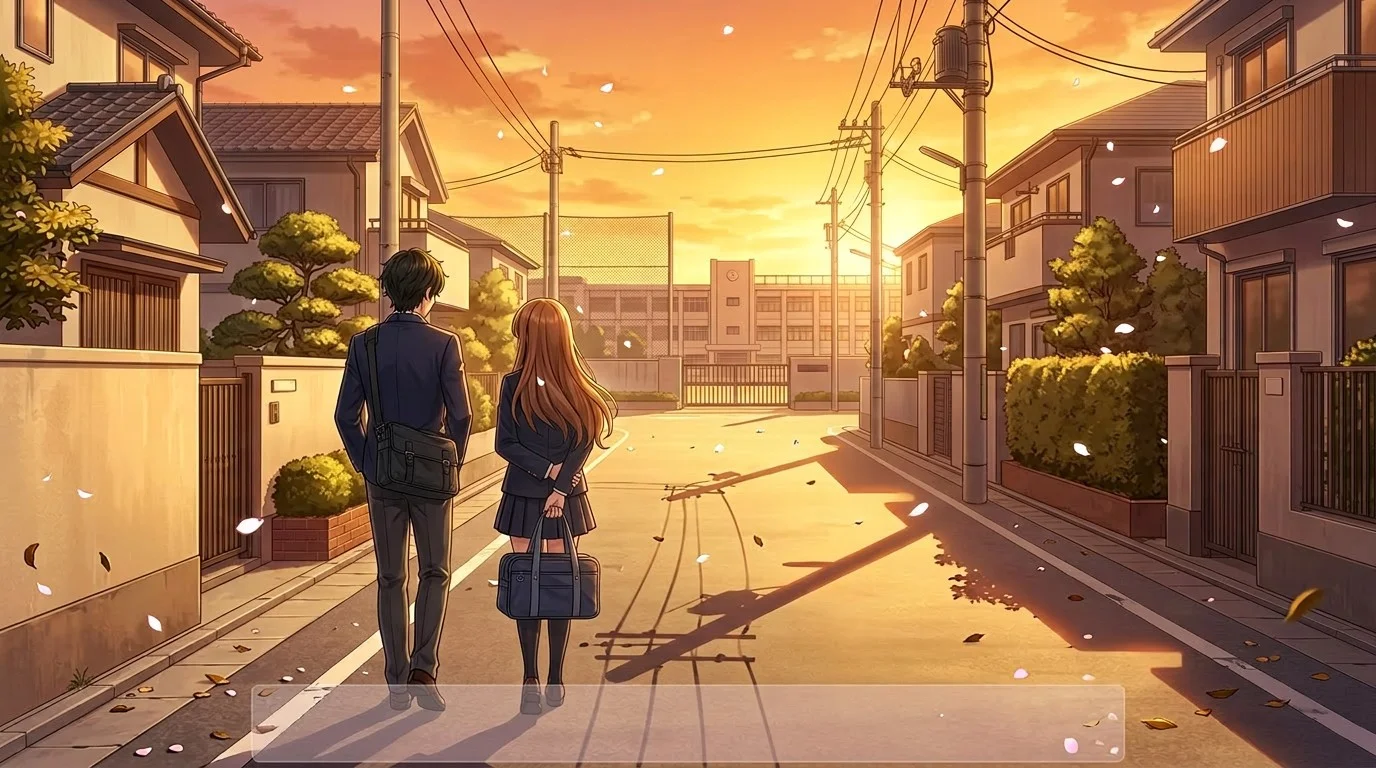
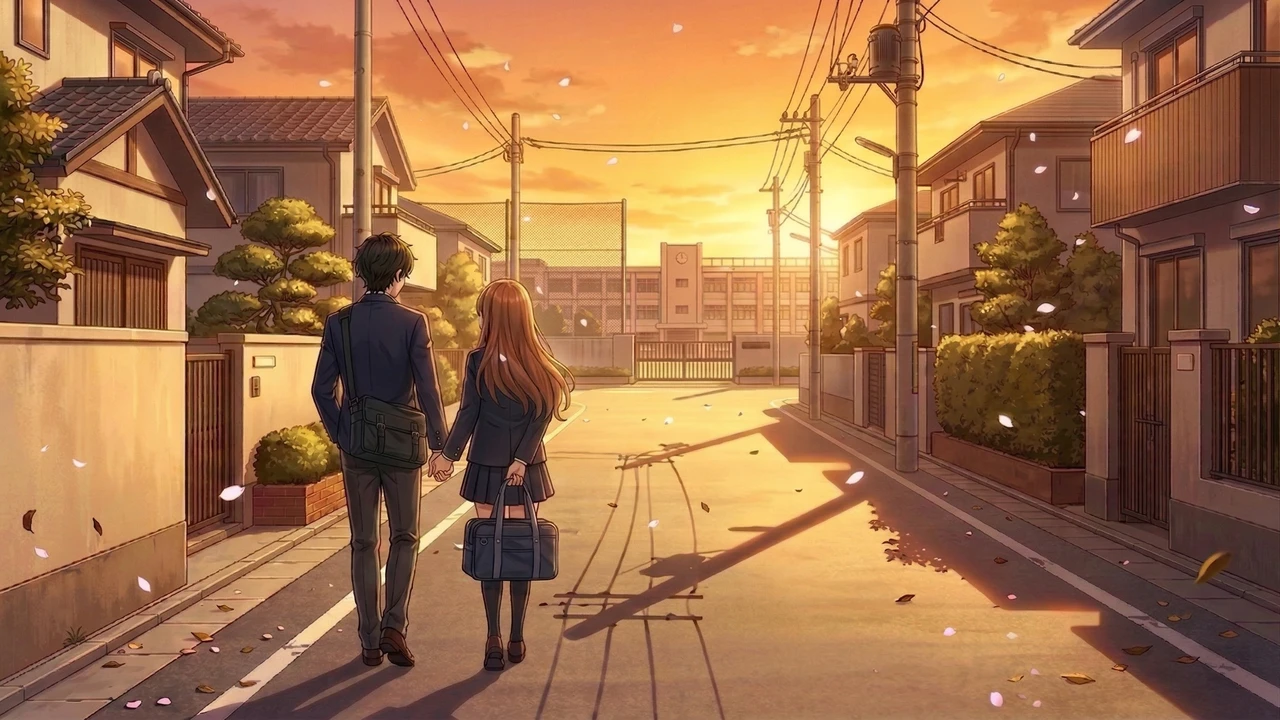
feat(ch6): まひる私服バリアントを追加・河川敷〜帰り道シーンに適用
- mahiru_private（私服）5表情をwebp変換してassetsに追加
- config.jsにmahiru_privateキャラクターエントリ追加
- chapter6のmahiru_river・evening_walkシーンのmahiru→mahiru_private化
- mahiru_riverbank スチルを私服版に差し替え（1280x720）
- evening_walkスチルをmahiru_riverbankからevening_walk_twoに変更
- evening_walk_two.webpをメッセージウィンドウ除去版に差し替え

diff --git a/config.js b/config.js
@@ -62,6 +62,13 @@ const VN_CONFIG = {
       // 体操服衣装。画像パス: assets/images/chars/mahiru_sports/{expr}.png
       expressions: ['normal', 'happy'],
     },
+    mahiru_private: {
+      name: '月夜野まひる',
+      nameColor: '#88ddaa',
+      charColor: 'rgba(80, 190, 130, 0.75)',
+      // 私服衣装。画像パス: assets/images/chars/mahiru_private/{expr}.png
+      expressions: ['normal', 'happy', 'sad', 'surprised', 'thinking'],
+    },
   },
 
   // ===========================================================

diff --git a/scenarios/chapter6.md b/scenarios/chapter6.md
@@ -833,7 +833,7 @@ kotoha: では。
 
 @wait 500
 
-@show mahiru center normal fade_in
+@show mahiru_private center normal fade_in
 @wait 500
 
 > まひるが、カメラを向けていた。
@@ -894,7 +894,7 @@ player: （何を撮っているんだろう……）
 
 @wait 500
 
-@expr mahiru normal
+@expr mahiru_private normal
 mahiru: ……勇くん。
 
 player: 邪魔した？
@@ -914,7 +914,7 @@ mahiru: ううん。
 
 @wait 700
 
-@expr mahiru thinking
+@expr mahiru_private thinking
 mahiru: ここ、昔よく来てたんだ。
 
 @wait 500
@@ -923,7 +923,7 @@ player: 一人で？
 
 @wait 600
 
-@expr mahiru sad
+@expr mahiru_private sad
 mahiru: ……ひとりじゃなかった。
 
 @wait 700
@@ -944,7 +944,7 @@ player: 写真、撮らないの？
 
 @wait 400
 
-@expr mahiru normal
+@expr mahiru_private normal
 mahiru: さっき、撮ろうとして——やめた。
 
 player: なんで。
@@ -966,7 +966,7 @@ player: じゃあ、撮らないほうがいいじゃないか。
 
 @wait 400
 
-@expr mahiru thinking
+@expr mahiru_private thinking
 mahiru: ……でも、撮らないと消えるから。
 
 @wait 500
@@ -988,14 +988,14 @@ player: 見ていいなら。
 
 @wait 500
 
-@expr mahiru happy
+@expr mahiru_private happy
 mahiru: ここで撮ったやつだよ。この場所、好きなんだ。
 
 player: なんで。
 
 @wait 600
 
-@expr mahiru thinking
+@expr mahiru_private thinking
 mahiru: ……理由は、あるんだけど。
 
 @wait 700
@@ -1018,7 +1018,7 @@ mahiru: ……理由は、あるんだけど。
 
 player: 何を撮ったの。
 
-@expr mahiru happy
+@expr mahiru_private happy
 mahiru: 川。
 mahiru: あと、空と、風。
 
@@ -1033,7 +1033,7 @@ mahiru: 草が揺れてるとこに、風が写る。
 
 @wait 600
 
-@expr mahiru normal
+@expr mahiru_private normal
 mahiru: ……勇くんも、撮っていい？
 
 player: 俺？
@@ -1048,7 +1048,7 @@ player: ……好きにしていいけど。
 
 @wait 500
 
-@expr mahiru thinking
+@expr mahiru_private thinking
 mahiru: ありがとう。
 
 @wait 500
@@ -1059,7 +1059,7 @@ mahiru: 川の隣に座ってる人の写真。
 
 player: そのまんまじゃないか。
 
-@expr mahiru happy
+@expr mahiru_private happy
 mahiru: そのまんまのほうが、いいの。
 
 @wait 600
@@ -1078,7 +1078,7 @@ player: （ここに、誰かいたんだ——）
 
 @wait 600
 
-@hide mahiru fade_out
+@hide mahiru_private fade_out
 @wait 500
 
 @jump chapter6_evening_walk
@@ -1101,7 +1101,7 @@ player: （ここに、誰かいたんだ——）
 
 @wait 500
 
-@expr mahiru surprised
+@expr mahiru_private surprised
 
 player: まひる。
 
@@ -1113,7 +1113,7 @@ mahiru: ……あ。勇くん。
 
 @wait 400
 
-@hide mahiru fade_out
+@hide mahiru_private fade_out
 
 @jump chapter6_evening_walk
 
@@ -1128,7 +1128,7 @@ mahiru: ……あ。勇くん。
 > 日が傾いていた。
 > 橙色が、道の先まで伸びている。
 
-@show mahiru right normal fade_in
+@show mahiru_private right normal fade_in
 @wait 400
 
 > 帰り道、まひると並んで歩いていた。
@@ -1139,7 +1139,7 @@ player: そうみたい。
 
 @wait 500
 
-@still mahiru_riverbank
+@still evening_walk_two
 @wait 800
 
 > しばらく、言葉はなかった。
@@ -1156,7 +1156,7 @@ player: そうみたい。
 
 @wait 600
 
-@expr mahiru thinking
+@expr mahiru_private thinking
 mahiru: 勇くんって。
 
 @wait 400
@@ -1167,7 +1167,7 @@ mahiru: 以前より、人の話を聞く顔になった気がする。
 
 player: ……そうか？
 
-@expr mahiru normal
+@expr mahiru_private normal
 mahiru: うん。なんか、ちゃんと聴いてる感じがする。
 
 @wait 600
@@ -1182,7 +1182,7 @@ player: まひるは？
 
 @wait 400
 
-@expr mahiru thinking
+@expr mahiru_private thinking
 mahiru: ……まひるも、最近ちょっと。
 
 @wait 600
@@ -1193,7 +1193,7 @@ mahiru: 誰かに話を聞いてもらえると、楽になるってわかって
 
 player: 心配してくれてるのか。
 
-@expr mahiru happy
+@expr mahiru_private happy
 mahiru: うーん。心配、というか。
 
 @wait 400
@@ -1212,7 +1212,7 @@ mahiru: 違う？
 
 player: ……否定できない。
 
-@expr mahiru happy
+@expr mahiru_private happy
 mahiru: ふふ。正直。
 
 @wait 600
@@ -1232,14 +1232,14 @@ player: 体育館。それから商店街。それから河川敷。
 
 @wait 400
 
-@expr mahiru thinking
+@expr mahiru_private thinking
 mahiru: ……どれも、ひとりで？
 
 player: さくらとことはには会った。
 
 @wait 500
 
-@expr mahiru normal
+@expr mahiru_private normal
 mahiru: そっか。
 
 @wait 500
@@ -1254,7 +1254,7 @@ mahiru: 三人に会ったんだ。
 
 player: たまたまだけど。
 
-@expr mahiru happy
+@expr mahiru_private happy
 mahiru: たまたまって、おもしろいよね。
 mahiru: 会おうとして会うのと、たまたま会うのは、同じ「会う」なのに、違う感じがする。
 
@@ -1262,7 +1262,7 @@ player: どう違うんだ。
 
 @wait 400
 
-@expr mahiru thinking
+@expr mahiru_private thinking
 mahiru: ……たまたまのほうが、素の顔を見られる気がする。
 
 @wait 600
@@ -1282,7 +1282,7 @@ mahiru: ふふ。勇くんも、今日、少し素の顔してた。
 
 player: どんな顔。
 
-@expr mahiru happy
+@expr mahiru_private happy
 mahiru: 疲れてないときの顔。
 
 @wait 500
@@ -1292,7 +1292,7 @@ mahiru: 疲れてないときの顔。
 
 @wait 600
 
-@hide mahiru fade_out
+@hide mahiru_private fade_out
 @wait 600
 
 @jump chapter6_end
